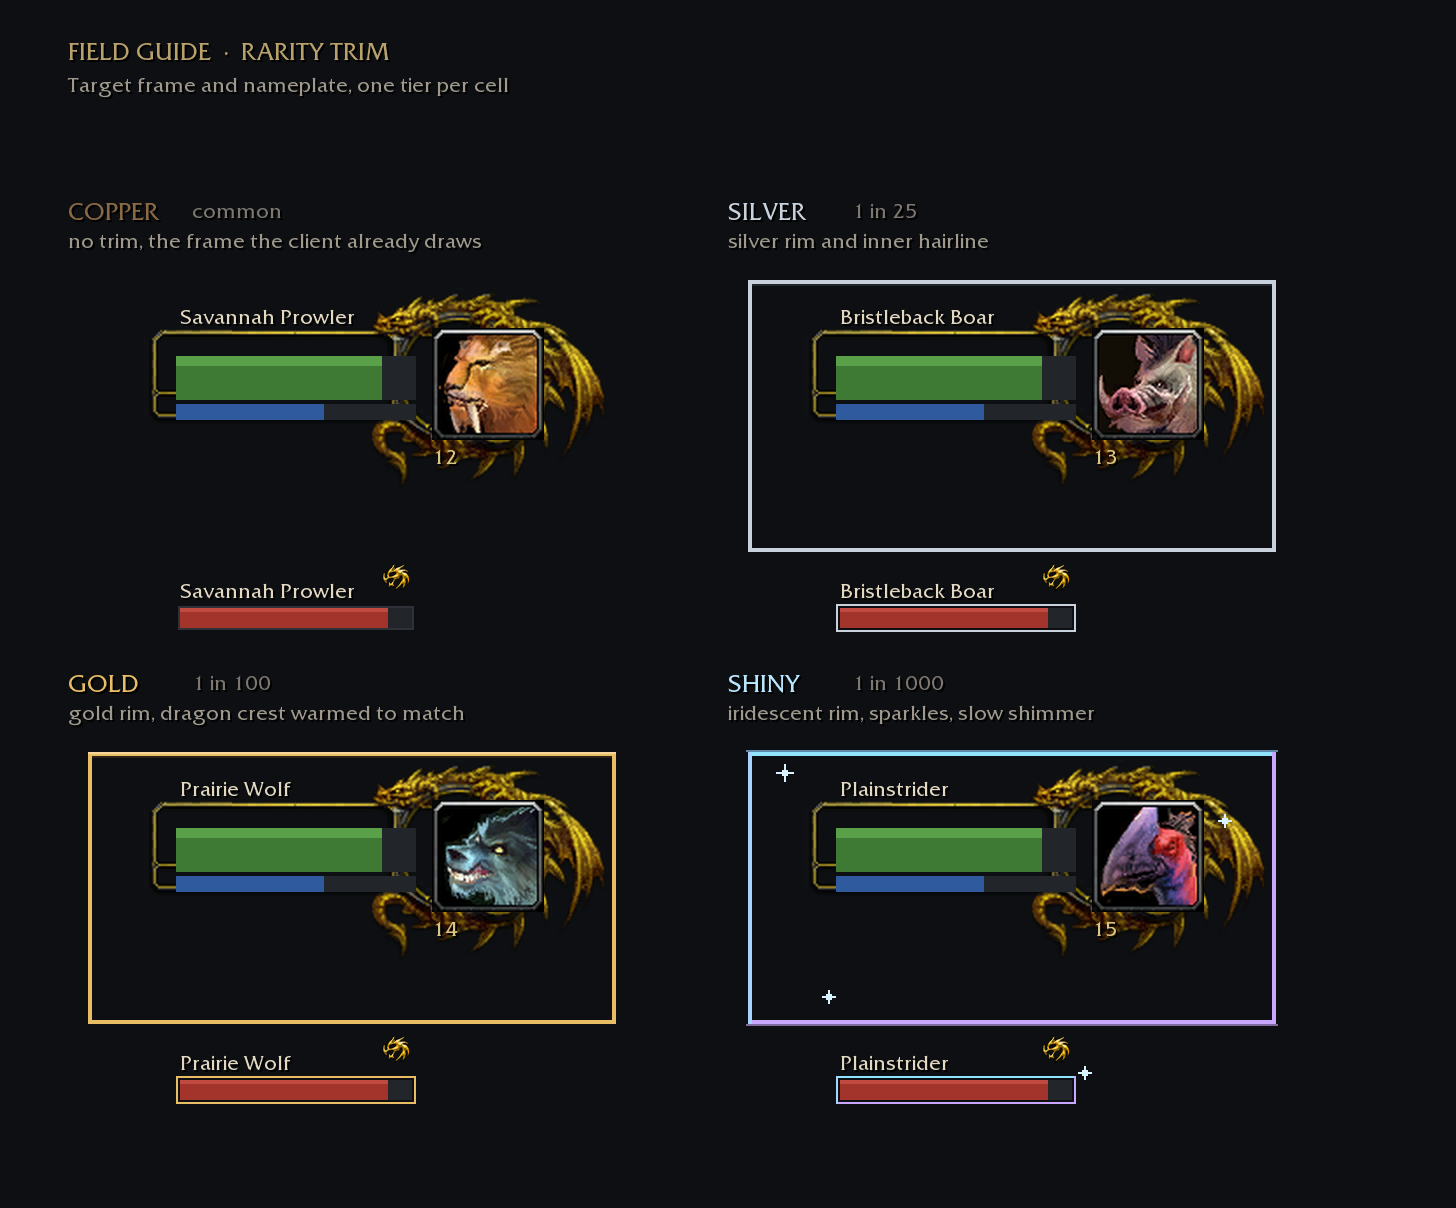
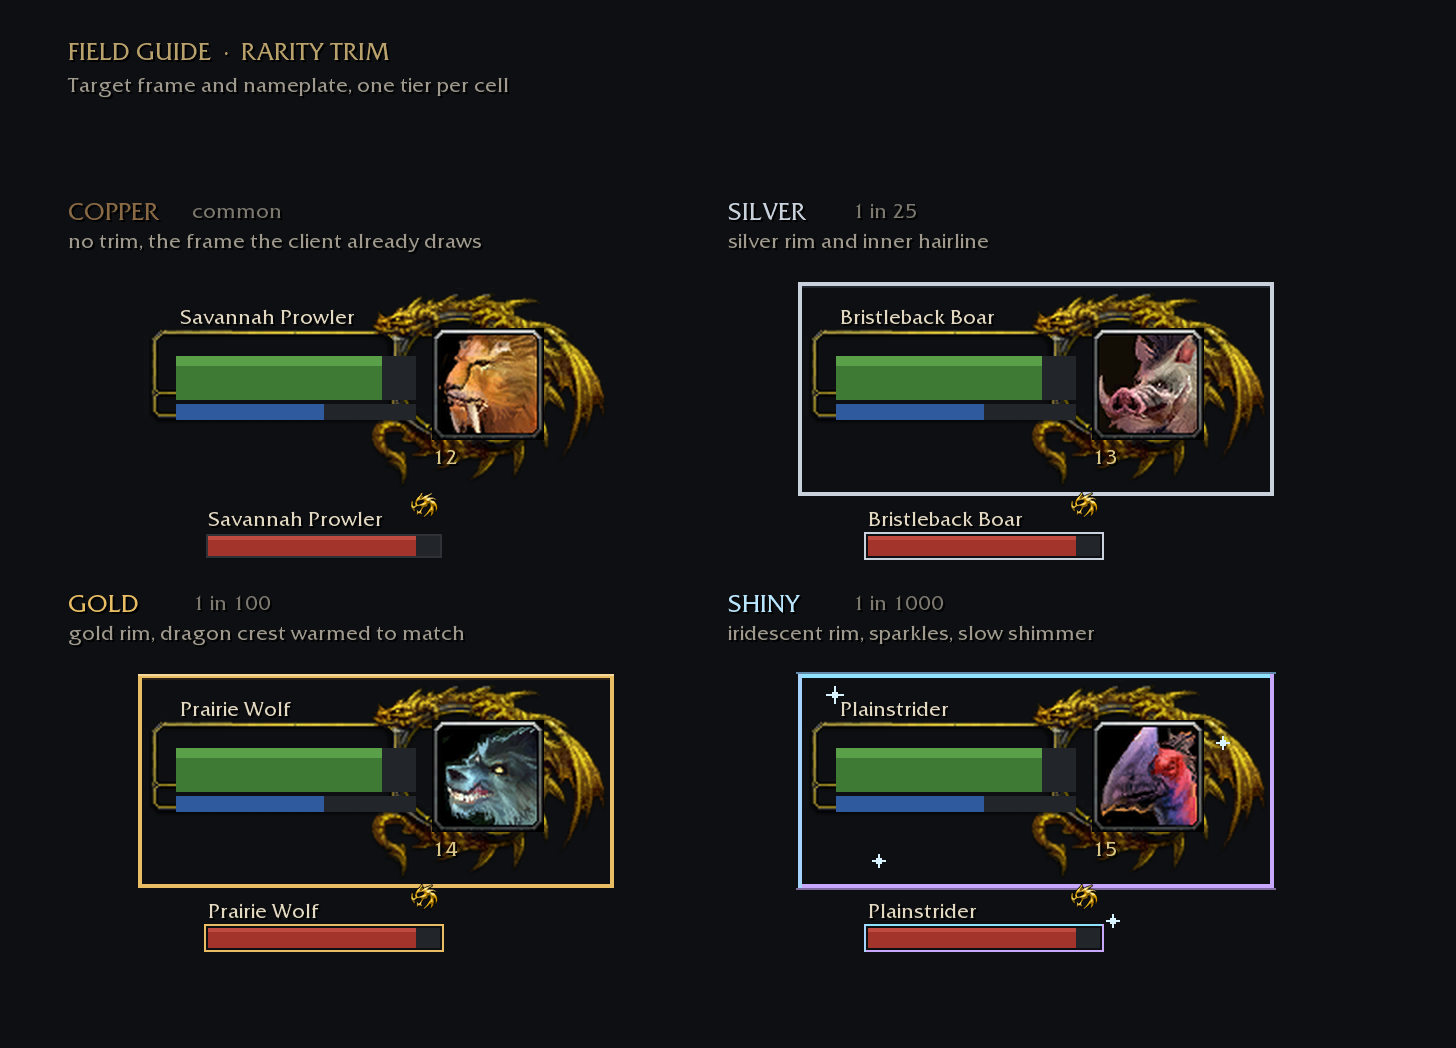
docs: hug the trim to the frame art and tighten the rarity cells

diff --git a/tools/rarity.py b/tools/rarity.py
@@ -78,11 +78,11 @@ def target_frame(ui, canvas, x, y, tier, icon, name, level, elite=False, namepla
     the tier's trim. Copper draws no trim at all, which is the design's whole claim."""
     label, odds, colour, _, _ = tier
 
-    if elite:
-        art = "hud-TargetingFrame-elite"
-    else:
-        art = "hud-TargetingFrame"
-    canvas.draw(ui.atlas(art), x, y, FRAME_W, FRAME_H)
+    art = "hud-TargetingFrame-elite" if elite else "hud-TargetingFrame"
+    atlas = ui.atlas(art)
+    canvas.draw(atlas, x, y, FRAME_W, FRAME_H)
+    # The atlas carries transparent margins, so the trim follows the art's own bounds rather than the draw box.
+    left, top, right, bottom = atlas.image.convert("RGBA").getbbox()
 
     # Health: the trough the client carves at the left of the frame, filled the way a live target reads.
     hx, hy, hw, hh = x + 40, y + 34, 120, 22
@@ -103,8 +103,9 @@ def target_frame(ui, canvas, x, y, tier, icon, name, level, elite=False, namepla
 
     # Trim sits outside the art, never on top of it: an elite keeps its dragon and only gains an outer edge, so
     # the two decorations never fight for the same pixels.
-    pad = 4
-    tx, ty, tw, th = x - pad, y - pad, FRAME_W + pad * 2, FRAME_H + pad * 2
+    pad = 3
+    tx, ty = x + left - pad, y + top - pad
+    tw, th = (right - left) + pad * 2, (bottom - top) + pad * 2
     if label == "SHINY":
         for row, (rx, ry, rw, rc) in enumerate(iridescent(tx, ty, tw, th)):
             pass
@@ -169,7 +170,7 @@ def main():
 
     def sheet(name, elite=False, plates=False):
         cols, rows = 2, 2
-        cell_w, cell_h = 330, 236
+        cell_w, cell_h = 330, 196
         m = 34
         canvas = ui.canvas(cell_w * cols + m * 2, cell_h * rows + m * 2 + 64)
         canvas.fill(0, 0, canvas.width, canvas.height, BG)
@@ -196,7 +197,7 @@ def main():
 
             target_frame(ui, canvas, cx + 14, cy + 46, tier, icons[glyph[index]], folk[index], 12 + index, elite=elite)
             if plates:
-                nameplate(ui, canvas, cx + 56, cy + 206, tier, folk[index], elite=elite)
+                nameplate(ui, canvas, cx + 70, cy + 170, tier, folk[index], elite=elite)
         return canvas
 
     sheet("target frames").save(OUT / "rarity-target.png")
